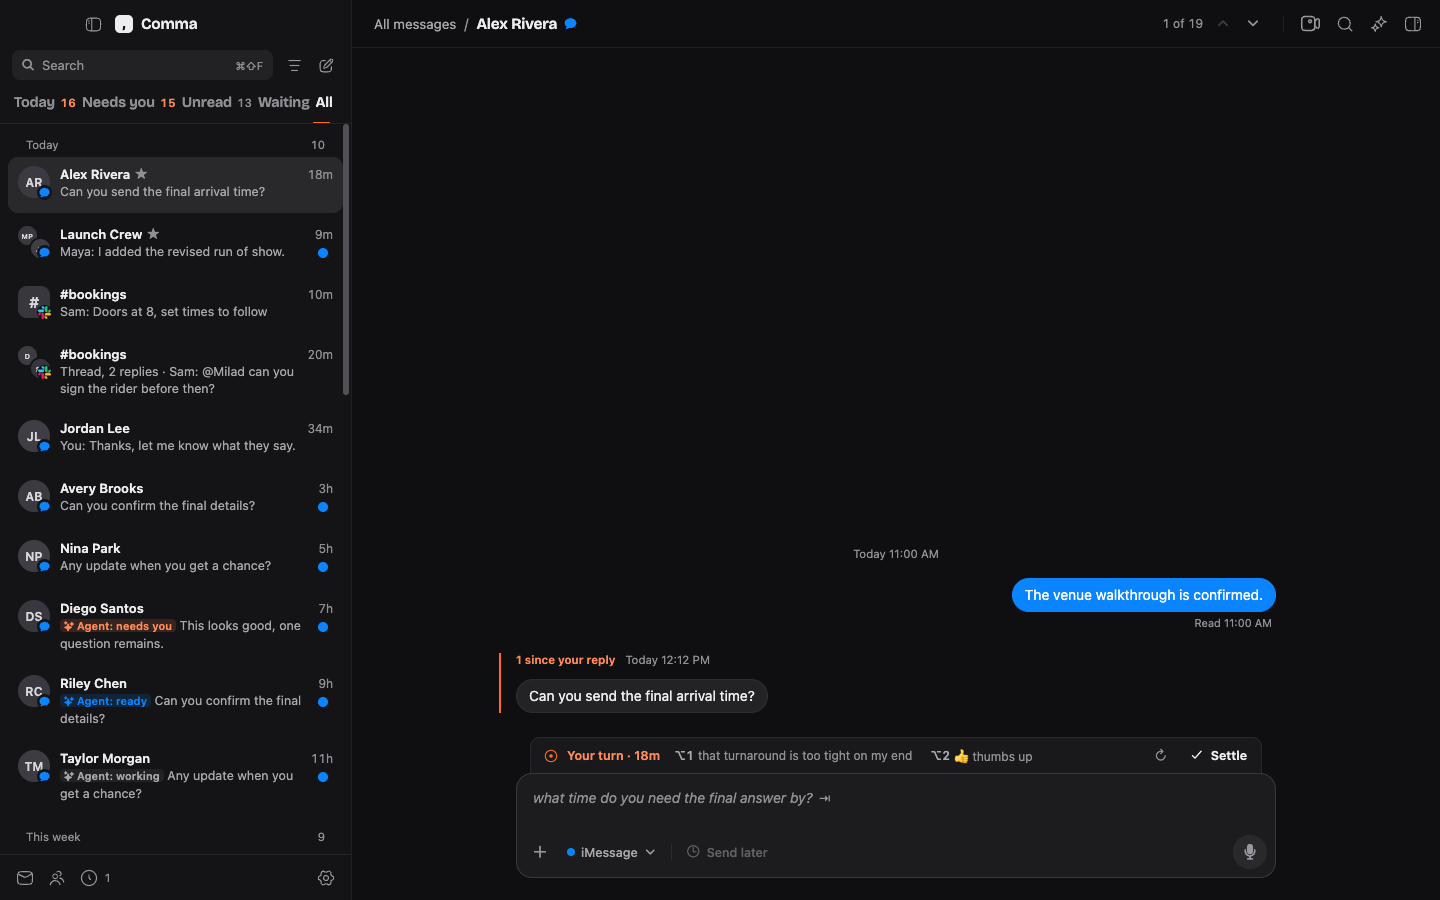
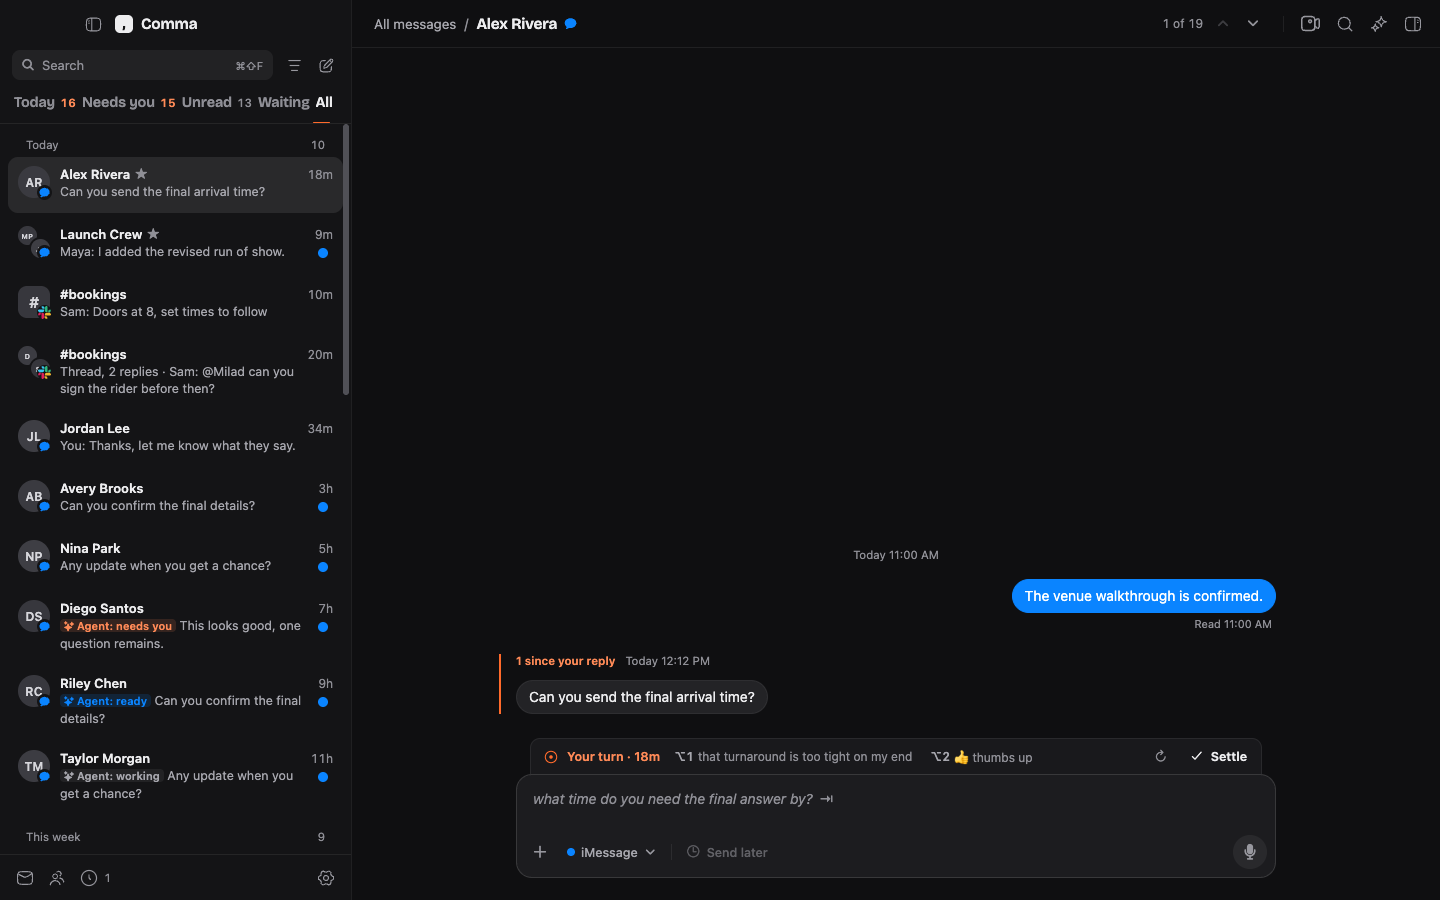
fix(comma): phone toast sits over the strip's line; the ⇥ keeps the ghost's line height
With the chips on the strip's line, the phone's bottom-anchored toast covered the
field. It now sits over the strip, which says the same thing while it shows. The
⇥ uses the ghost's own size, so the field no longer grows a pixel when it shows.

diff --git a/apps/imsg/client/src/lib/toast.tsx b/apps/imsg/client/src/lib/toast.tsx
@@ -47,6 +47,7 @@ export function ToastAnchor({ children, active }: { readonly children: ReactNode
   const context = useContext(ToastContext);
   const anchor = useRef(Symbol("toast-anchor")).current;
   const focused = useIsFocused();
+  const { wide } = useLayoutMode();
   const registerAnchor = context?.registerAnchor;
   useEffect(() => {
     if (active && focused) return registerAnchor?.(anchor);
@@ -55,9 +56,10 @@ export function ToastAnchor({ children, active }: { readonly children: ReactNode
   return (
     <View testID="thread-composer-chrome">
       {children}
-      {/* Bottom-anchored over the composer card, so it never covers the suggestion chips above it. */}
+      {/* Desktop: over the card's tool row. Phone: the field is the whole card, so the toast sits over the strip's
+          line above it, which says the same thing while the toast shows. */}
       {context?.activeAnchor === anchor && (
-        <View pointerEvents="box-none" style={[styles.overlay, { bottom: Space.md }]}>
+        <View pointerEvents="box-none" style={[styles.overlay, wide ? { bottom: Space.md } : { top: 0 }]}>
           {context.pill}
         </View>
       )}

diff --git a/apps/imsg/e2e/fixture/toast-layout.playwright.ts b/apps/imsg/e2e/fixture/toast-layout.playwright.ts
@@ -53,8 +53,11 @@ for (const scheme of ["light", "dark"] as const) {
       expect(pill.x + pill.width / 2, "toast is centered within the thread").toBeCloseTo(chrome.x + chrome.width / 2, 1);
       expect(pill.y, "toast stays below the entire message list").toBeGreaterThanOrEqual(listWithToast.y + listWithToast.height);
       expect(pill.y).toBeGreaterThanOrEqual(chrome.y);
-      const chips = await page.getByText("what time do you need the final answer by?", { exact: true }).boundingBox();
-      if (chips) expect(pill.y, "toast clears the suggestion chips").toBeGreaterThanOrEqual(chips.y + chips.height);
+      const ghost = await page.getByTestId("composer-ghost").boundingBox();
+      if (ghost) {
+        const coversGhost = pill.y < ghost.y + ghost.height && pill.y + pill.height > ghost.y;
+        expect(coversGhost, "toast leaves the suggested reply in the field readable").toBe(false);
+      }
       expect(pill.y + pill.height).toBeLessThanOrEqual(chrome.y + chrome.height);
       await undo.click();
       await expect(undo).toHaveCount(0);

diff --git a/apps/imsg/client/src/components/composer.tsx b/apps/imsg/client/src/components/composer.tsx
@@ -1489,7 +1489,8 @@ const styles = StyleSheet.create({
   toolSep: { height: 16, marginHorizontal: 2, width: 1 },
   toolSpacer: { flex: 1 },
   serviceDot: { borderRadius: 4, height: 8, width: 8 },
-  ghostTab: { fontSize: 12, fontStyle: "normal", fontWeight: "600" },
+  // The ghost's own size: a smaller run would stretch the line box and grow the field by a pixel.
+  ghostTab: { fontStyle: "normal", fontWeight: "600" },
   cardGhost: { left: 16, position: "absolute", right: 16, top: CARD_PAD_TOP },
   phoneGhost: { left: MIRROR_INSET_H, position: "absolute", right: USE_KEY_INSET, top: (Platform.OS === "web" ? 7 : 8) + INPUT_BORDER_W },
   useKey: {

diff --git a/apps/imsg/e2e/fixture/visual.playwright.ts b/apps/imsg/e2e/fixture/visual.playwright.ts
@@ -299,7 +299,7 @@ test("suggestion shelf states hold their footprint and recover quietly", async (
     await page.mouse.move(5, 5);
     await expect(retry, "a failure stays quiet until the pointer reaches the shelf").toHaveText("");
     await retry.hover();
-    await expect(retry).toHaveText("Retry suggestions");
+    await expect(retry).toContainText("Retry suggestions");
     await page.screenshot({ path: `/tmp/comma-shelf-failed-${scheme}.png`, animations: "disabled" });
 
     fail = false;
